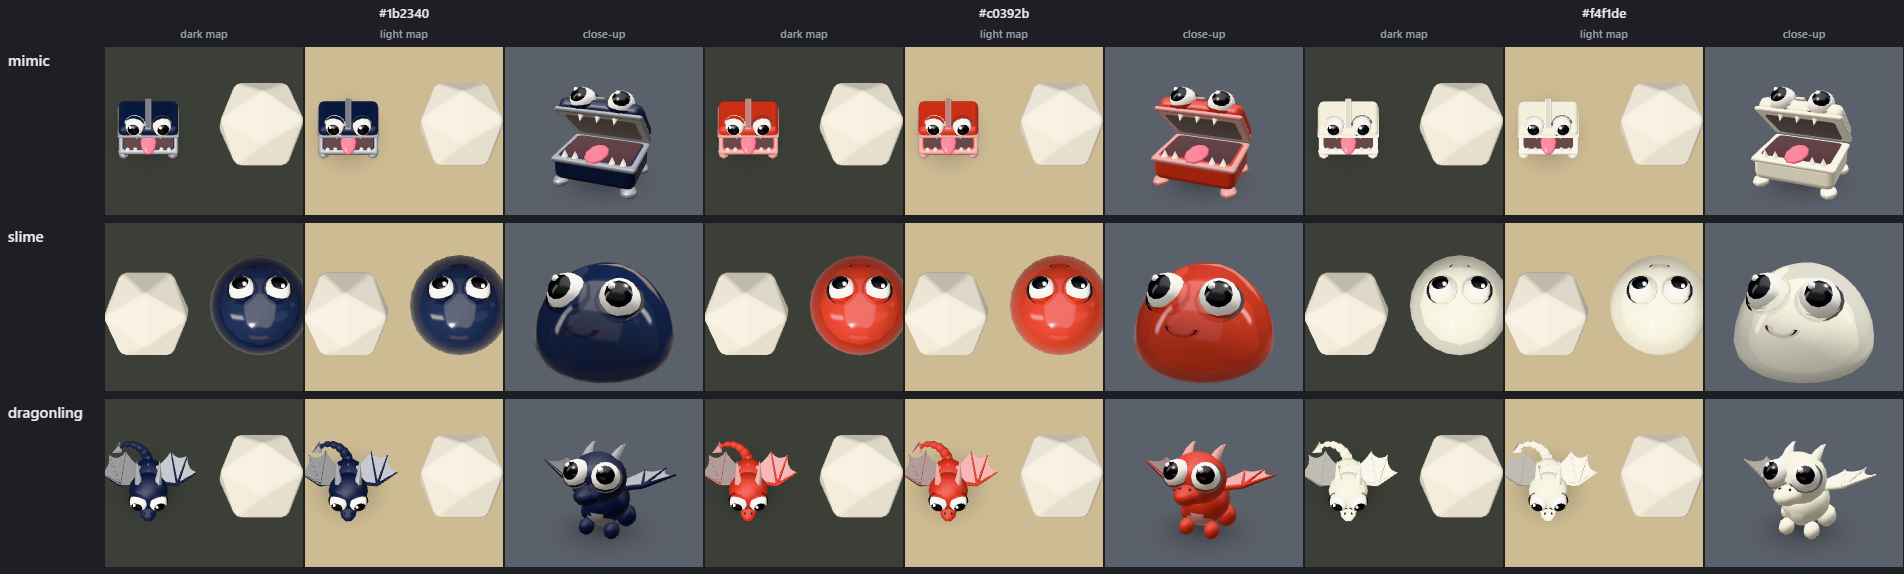
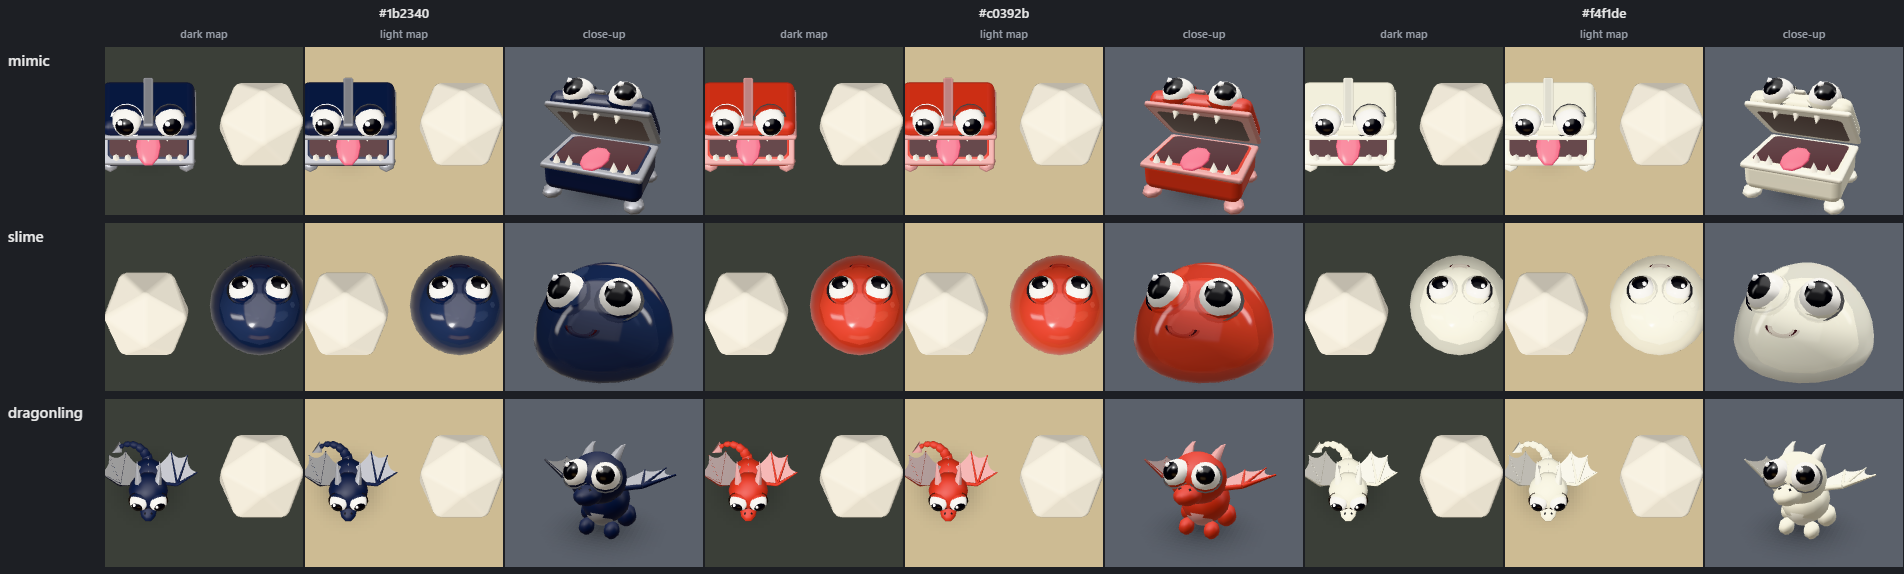
fix(pet): bigger mimic, readable mimic sulk

diff --git a/src/pet/chunk/creatures/mimic.js b/src/pet/chunk/creatures/mimic.js
@@ -28,6 +28,10 @@ import {
  * into a sulk; mixed: a tilt and one squinting eye; plain: a contented double chomp.
  */
 
+// The standing height of the CLOSED chest (feet to lid top, eyes included), fitted at build. The
+// open jaw rises above it (about 2.3 in watch): the mimic's footprint then matches the slime's
+// and a d20's width from the top-down camera, and the layer's inset, hop and shadow (all scaled
+// by height) follow the chest, not the lid.
 const HEIGHT = 1.5;
 // Design units (scaled to HEIGHT at build).
 const W = 1.45; // base width (x)
@@ -58,6 +62,8 @@ const REST = {
   gazeYaw: 0,
   gazePitch: -0.35,
   tiltUp: 0, // extra upward roll of the eyes on the lid, so a shut jaw still shows them from above
+  eyeScale: 1,
+  crook: 0, // the lid shut askew (roll about its hinge axis)
 };
 const PK = poseKit(REST);
 
@@ -194,7 +200,8 @@ export function mimic(color) {
   }
   const eyes = [1, -1].map((side) => {
     const e = createEye(kit, { r: EYE_R, side, detail, lid: body });
-    e.socket.position.set(side * 0.34, LID_H - 0.02, D * 0.9); // on the lid edge: seen from the front and from above
+    // on the lid edge: seen from the front and from above
+    e.socket.position.set(side * 0.34, LID_H - 0.02, D * 0.9);
     e.socket.rotation.order = 'YXZ';
     e.socket.rotation.set(-0.55, side * 0.18, 0);
     lid.add(e.socket);
@@ -228,17 +235,22 @@ export function mimic(color) {
     } else if (reaction === 'fumble') {
       const droop = smooth(span(t, 0.05, 0.5));
       const sigh = bump(t, 0.6, 0.85);
-      o.lid = lerp(LID, 0.1, smooth(span(t, 0.03, 0.22))) + 0.14 * bump(t, 0.8, 0.97); // a sulky peek
+      // The jaw slams shut askew, the chest sags to one side, and two big droopy eyes peek over
+      // the lid's front edge, looking down: a sulk that reads from straight above.
+      o.lid = lerp(LID, 0.12, smooth(span(t, 0.03, 0.22))) + 0.12 * bump(t, 0.8, 0.97); // a sulky peek
+      o.crook = 0.16 * droop;
+      o.roll = -0.12 * droop;
       o.tongue = lerp(1, 0, smooth(span(t, 0, 0.18)));
-      o.squash = 0.2 * droop - 0.05 * sigh;
-      o.lift = -0.05 * droop;
-      o.pitch = 0.16 * droop + 0.03 * sigh;
+      o.squash = 0.18 * droop - 0.05 * sigh;
+      o.lift = -0.04 * droop;
+      o.pitch = 0.04 * droop + 0.03 * sigh;
       o.tuck = -0.6 * droop; // feet splay out as it sinks
-      o.tiltUp = 0.95 * droop; // sad eyes still turned up to the camera
-      o.upper = lerp(0.2, 0.42, droop);
-      o.lower = lerp(0.1, 0.05, droop);
-      o.sad = 0.45 * droop;
-      o.gazePitch = lerp(-0.35, -0.5, droop);
+      o.tiltUp = 1.05 * droop; // the sad eyes still turn up to the camera
+      o.eyeScale = 1 + 0.32 * droop;
+      o.upper = lerp(0.2, 0.56, droop); // heavy half-moon lids over pupils that look down
+      o.lower = lerp(0.1, 0.0, droop);
+      o.sad = 0.5 * droop;
+      o.gazePitch = lerp(-0.35, -0.75, droop);
       o.gazeYaw = 0.15 * Math.sin(t * TAU * 0.8) * droop;
     } else if (reaction === 'mixed') {
       const tilt = outBack(span(t, 0.04, 0.32), 2.2) * (1 - smooth(span(t, 0.82, 1)));
@@ -326,7 +338,7 @@ export function mimic(color) {
     const sy = 1 - o.squash;
     const sxz = 1 / Math.sqrt(Math.max(0.2, sy));
     squash.scale.set(sxz, sy, sxz);
-    lid.rotation.x = -Math.max(-0.02, o.lid);
+    lid.rotation.set(-Math.max(-0.02, o.lid), 0, o.crook);
     const out = Math.min(1.3, Math.max(0, o.tongue));
     tonguePivot.position.z = -0.24 + 0.2 * out;
     tonguePivot.rotation.set(0.09 * out, o.wag, 0);
@@ -344,6 +356,7 @@ export function mimic(color) {
       const side = i === 0 ? 1 : -1;
       // the eyes roll against the jaw, so a wide-open lid still looks up at the camera
       eyes[i].socket.rotation.x = -0.55 - o.tiltUp + 0.85 * Math.max(0, o.lid - LID);
+      eyes[i].socket.scale.setScalar(o.eyeScale);
       eyes[i].set(
         o.gazeYaw,
         o.gazePitch,
@@ -354,8 +367,9 @@ export function mimic(color) {
     }
   }
 
-  // Fit the standing pose to HEIGHT.
+  // Fit the closed chest to HEIGHT.
   PK.reset(p);
+  p.lid = 0;
   apply(p);
   root.updateMatrixWorld(true);
   const h = new THREE.Box3().setFromObject(root).getSize(new THREE.Vector3()).y;

diff --git a/dev/pets.js b/dev/pets.js
@@ -109,7 +109,7 @@ const OUT = [
   [0, 1],
   [0, -1],
 ];
-function gameView(pet, w, h, bg, edge = 3) {
+function gameView(pet, w, h, bg, edge = 3, onPet = false) {
   scene.background = new THREE.Color(bg);
   d20.visible = true;
   // The pet's standing place (as pets.js computes it) and a d20 beside it along the edge.
@@ -124,7 +124,8 @@ function gameView(pet, w, h, bg, edge = 3) {
   camera.position.set(0, H, 0);
   camera.lookAt(0, 0, 0);
   camera.updateMatrixWorld(true);
-  _v.set((bx + d20.position.x) / 2, 0.5, (bz + d20.position.z) / 2).project(camera);
+  if (onPet) _v.set(pet.position.x, 0.5, pet.position.z).project(camera);
+  else _v.set((bx + d20.position.x) / 2, 0.5, (bz + d20.position.z) / 2).project(camera);
   const cx = ((_v.x + 1) / 2) * full.w;
   const cy = ((1 - _v.y) / 2) * full.h;
   camera.setViewOffset(full.w, full.h, cx - w / 2, cy - h / 2, w, h);
@@ -146,6 +147,11 @@ function closeUp(pet, w, h, bg, { dist = 4.6, height = 2.6, side = 1.6, follow =
     ? new THREE.Box3().setFromObject(pet.children[0]).getCenter(_v)
     : _v.set(pet.position.x, 0.9, pet.position.z);
   target.y = Math.max(0.6, target.y);
+  // back off for the mimic's wide chest, so every pet fills the cell alike
+  const wide = pet.children[0].name === 'mimic' ? 1.3 : 1;
+  dist *= wide;
+  height = 0.6 + (height - 0.6) * wide;
+  side *= wide;
   close.aspect = w / h;
   close.position.set(
     target.x + fx * dist + fz * side,
@@ -270,6 +276,9 @@ const STRIP_ROWS = [
   { phase: 'react', reaction: 'mixed' },
   { phase: 'react', reaction: 'plain' },
   { phase: 'exit', reaction: 'fumble' },
+  // the game camera at the true 48 px/die, centred on the pet
+  { phase: 'react', reaction: 'crit', view: 'game' },
+  { phase: 'react', reaction: 'fumble', view: 'game' },
 ];
 /** Each phase as 8 frames (t = 0 .. 1) of the close-up: the motion curves at a glance. */
 function strips(kinds = KINDS) {
@@ -286,13 +295,21 @@ function strips(kinds = KINDS) {
   rows.forEach((row, r) => {
     const y = 24 + r * S;
     label(g, row.kind, 6, y + 20, { size: 13 });
-    label(g, row.reaction ? `${row.phase}: ${row.reaction}` : row.phase, 6, y + 38, {
+    const name = row.reaction ? `${row.phase}: ${row.reaction}` : row.phase;
+    label(g, row.view ? `${name} (game)` : name, 6, y + 38, {
       size: 11,
       color: '#9aa0aa',
     });
     for (let i = 0; i < N; i++) {
       shot({ kind: row.kind, color: KIND_COLOR[row.kind], ...row, t: i / (N - 1) }, (pet) => {
-        closeUp(pet, S - 2, S - 2, '#5b616b', { dist: 6.4, height: 3.4, side: 2.2, follow: false });
+        if (row.view === 'game') gameView(pet, S - 2, S - 2, BG.dark, 3, true);
+        else
+          closeUp(pet, S - 2, S - 2, '#5b616b', {
+            dist: 6.4,
+            height: 3.4,
+            side: 2.2,
+            follow: false,
+          });
         blit(g, LW + i * S + 1, y + 1);
       });
     }

diff --git a/tests/unit/pet-creatures.test.js b/tests/unit/pet-creatures.test.js
@@ -8,6 +8,9 @@ const TOL = 0.15;
 const PHASES = ['enter', 'throw', 'watch', 'react', 'exit'];
 const REACTIONS = ['crit', 'fumble', 'mixed', 'plain', null];
 const KINDS = ['mimic', 'slime', 'dragonling'];
+// The watch pose's measured height. The mimic's height is its closed chest, and its open jaw
+// rises above it (see creatures/index.js), so its open pose may stand up to 2.5.
+const WATCH_MAX = { mimic: 2.5 };
 
 const meshes = (root) => {
   const out = [];
@@ -40,8 +43,17 @@ describe.each(KINDS)('%s', (kind) => {
     const box = new THREE.Box3().setFromObject(c.root);
     const size = box.getSize(new THREE.Vector3());
     expect(size.y).toBeGreaterThanOrEqual(HEIGHT - TOL);
-    expect(size.y).toBeLessThanOrEqual(HEIGHT + TOL);
+    expect(size.y).toBeLessThanOrEqual(WATCH_MAX[kind] ?? HEIGHT + TOL);
     expect(Math.abs(box.min.y)).toBeLessThan(0.06); // stands on the floor
+    c.dispose();
+  });
+
+  test('its top-down footprint is about a d20 wide (>= 1.6)', () => {
+    const c = CREATURES[kind]('#c0392b');
+    c.pose('watch', 0, null, { yaw: 0, now: 0 });
+    c.root.updateMatrixWorld(true);
+    const size = new THREE.Box3().setFromObject(c.root).getSize(new THREE.Vector3());
+    expect(Math.max(size.x, size.z)).toBeGreaterThanOrEqual(1.6);
     c.dispose();
   });
 

diff --git a/src/pet/chunk/creatures/index.js b/src/pet/chunk/creatures/index.js
@@ -13,5 +13,8 @@ import { dragonling } from './dragonling.js';
  *   clamped to +-0.6 and 0 outside watch/react: the head, eyes and pupils turn by it.
  * The layer owns the root's position and turns the body; a creature only animates inside its
  * root. Its local forward (toward the dice) is +Z, up is +Y and it stands on y = 0.
+ * height is the creature's standing body height (the layer scales its inset, hops and shadow by
+ * it). For the mimic it is the closed chest: its open jaw rises above that (about 2.3 in watch),
+ * so that its top-down footprint is as wide as the other pets' and a d20's.
  */
 export const CREATURES = { mimic, slime, dragonling };
